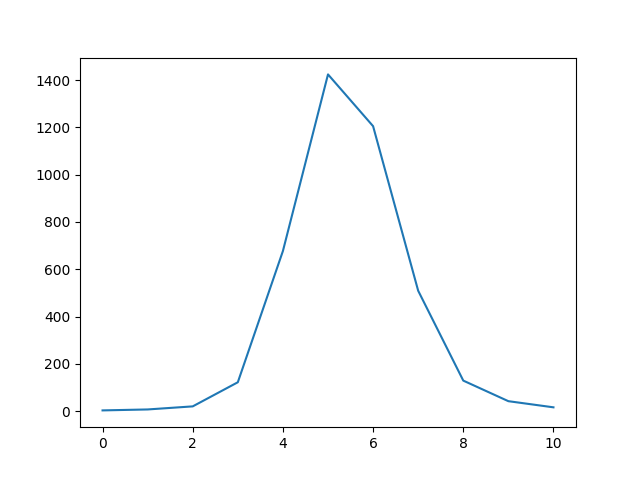
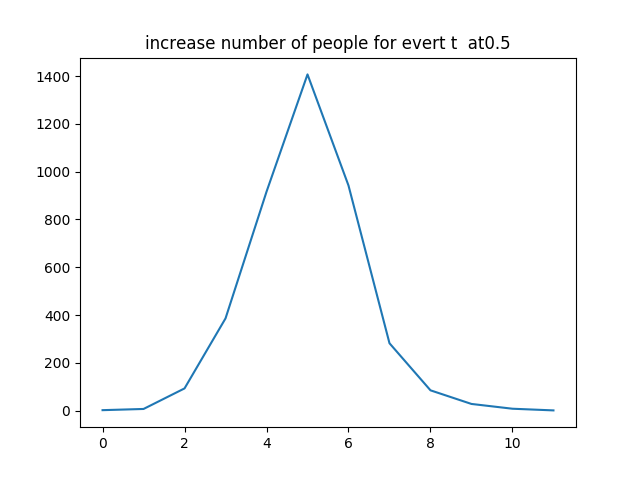
tests

diff --git a/jarden_center/main_code/single-multiple-source/eccitsy922/Conditional_satisfaction/source_progation_likeBFS/likeBFS_onesource.py b/jarden_center/main_code/single-multiple-source/eccitsy922/Conditional_satisfaction/source_progation_likeBFS/likeBFS_onesource.py
@@ -8,7 +8,7 @@
 
 # @Author  : baozhiqiang
 
-# @File    : likeBFS.py
+# @File    : likeBFS_mult_souce.py
 
 # @User    : bao
 
@@ -79,8 +79,6 @@ class  LikeBFS:
         :param SourceList:
         :return:
         '''
-
-
         queue = set()
         for source in SourceList:
             G.node[source]['SI'] = 2
@@ -122,27 +120,50 @@ class  LikeBFS:
     画图
     '''
 
-    def plot(self,x_list, y_list, propagation1):
+    def plot(self,x_list, y_list, propagation1,Probability):
         plt.figure()
         plt.plot(x_list, y_list)
+        plt.title('increase number of people for evert t  at'+str(Probability))
+
         plt.savefig('result/'+str(propagation1) + ".png")
         # plt.show()
+        plt.close()
 
 
-    def plot_plus(self,x_list,y_list1,y_list2,propagation1):
+    def plot_plus(self,x_list,y_list1,y_list2,propagation1,Probability):
 
         # label = 'y2'
         plt.plot(x_list, y_list1, 'g', label = 'progation')
         plt.plot(x_list, y_list2, 'r--', label='BFS')
         plt.legend()
-        plt.xlabel('t')
+        plt.title('increase number of people for evert t  at'+str(Probability))
 
         plt.ylabel('Increased number of infected people for every t')
         plt.savefig('result/'+str(propagation1) + ".png")
-
+        plt.close()
 
         # pass
 
+    def  plot_sum_increase(self,x_list,y_list1,y_list2,filename,Probability):
+        temp1 = 0
+        temp2 = 0
+        new_list1 =[]
+        new_list2 = []
+        for  y1, y2  in zip(y_list1, y_list2):
+            temp1  +=y1
+            new_list1.append(temp1)
+            temp2 += y2
+            new_list2.append(temp2)
+
+        plt.plot(x_list, new_list1, 'g', label='progation')
+        plt.plot(x_list, new_list2, 'r--', label='BFS')
+        plt.legend()
+        plt.title('sum number of people for evert t at'+str(Probability))
+        plt.xlabel('t')
+        plt.ylabel('sum of infected people for every t')
+        plt.savefig('result/' + str(filename) + ".png")
+        plt.close()
+    # pass
     def  get_best_BFScenter(self,subinfectG,fix_number_souce,progation_number,source_list):
         '''
 
@@ -189,24 +210,25 @@ class  LikeBFS:
 
 
 
-
     def main(self):
         initG = commons.get_networkByFile('../../../data/CA-GrQc.txt')
+
+        # initG = commons.get_networkByFile('../../../data/treenetwork3000.txt')
+
         max_sub_graph = commons.judge_data(initG)
         source_list = commons.product_sourceList(max_sub_graph, 1)
         infectG, progration_number, y_list1 = self.get_paogration(max_sub_graph, source_list)
-        print('progration_number',progration_number)
-        print('len(y_list1)',len(y_list1))
+        # print('progration_number',progration_number)
+        # print('len(y_list1)',len(y_list1))
         y_list2 = self.get_BFS(max_sub_graph,source_list[0],progration_number)
-
-
         print(len(y_list2))
         print(len(y_list1))
-        self.plot(range(len(y_list1)),y_list1,'progration')
-        self.plot(range(len(y_list2)),y_list2,'bfs')
-        self.plot_plus(range(len(y_list2)),y_list1,y_list2,'all')
-
-
+        Probability = 0.5
+        self.plot(range(len(y_list1)),y_list1,'progration',Probability)
+        self.plot(range(len(y_list1)),y_list2,'bfs',Probability)
+        self.plot_plus(range(len(y_list2)),y_list1,y_list2,'every_t',Probability)
+        self.plot_sum_increase(range(len(y_list2)),y_list1,y_list2,'sum',Probability)
+        #重新画一个图，记录增长总数变化。
 
 
 

diff --git a/jarden_center/main_code/single-multiple-source/eccitsy922/Monte_Carlo_first.py b/jarden_center/main_code/single-multiple-source/eccitsy922/Monte_Carlo_first.py
@@ -132,34 +132,6 @@ class FindSource:
         M_dis = 0
         best_h_node = []
         min_cover = 100  # 某一层的覆盖率，肯定会比这个小。
-        # tempGraph =self.infectG         #采用不同的感染图
-        # for eccentric, node_list in sort_eccentricity_dict[0:len(sort_eccentricity_dict)-1:1]:
-        #     print('how to that')
-        #     print(eccentric, node_list)
-        #     M_dis =  max_eccentric - eccentric  #最好的bFS树半径。
-        #     #随机挑选k个点固定次数。
-        #     temp_all_cover = 0
-        #     temp_cover = 0
-        #     temp_ave_cover = 0
-        #     if len(node_list) > self.fix_number_source*2  : #这一层只有大于3个点才可以。
-        #         itemNumber =  int(len(node_list)/10)   #层数越大，节点越多，应该采样越多才能逼近近似值。
-        #         for frequency  in range(itemNumber): #抽取10次,这里有问题，有些层数目多，怎么抽取会好点？按照层数抽取相应的次数会比较好点，公平。
-        #             slice = random.sample(node_list, self.fix_number_source)
-        #             temp_cover =commons.getSimilir1(slice, M_dis, singleRegionList, tempGraph)
-        #             temp_all_cover += temp_cover
-        #         if temp_all_cover != 0:
-        #             temp_ave_cover = temp_all_cover/itemNumber  #求出平均覆盖率。
-        #             print('temp_ave_cover',temp_ave_cover)
-        #         else:
-        #             temp_ave_cover = 0.1
-        #         if temp_ave_cover <= min_cover:
-        #             #这一层表现优异，记下h，以及这一层的所有节点。
-        #             print('每次平均的覆盖率是'+str(min_cover))
-        #             print('temp_ave_cover',temp_ave_cover)
-        #             min_cover = temp_ave_cover
-        #             best_h_node = node_list
-        #             best_h = M_dis
-        # print('输出表现优异同学,看看'+str(best_h_node),str(best_h))
 
 
         tempGraph = self.infectG
@@ -170,7 +142,6 @@ class FindSource:
             print(sort_eccentricity_dict[node_list_index][0])
             sort_eccentricity_dict[node_list_index][1].extend(sort_eccentricity_dict[node_list_index + 1][1])
             print(sort_eccentricity_dict[node_list_index][1])
-
             M_dis = max_eccentric - sort_eccentricity_dict[node_list_index][0] +1 # 最好的bFS树半径。
             # 随机挑选k个点固定次数。
             temp_all_cover = 0
@@ -237,7 +208,7 @@ class FindSource:
     
     '''
     def cal_distanceError(self,dir):
-        self.fix_number_source = 3
+        self.fix_number_source = 1
         distance = 0
         for i in range(5):
             self.main(dir)
@@ -250,7 +221,7 @@ class FindSource:
         pre = './result/'
         last = '.txt'
         with open(pre+dir+'first'+last, 'a') as f:
-            f.write(str(time.asctime( time.localtime(time.time()) ))+'\n')
+            f.write(str(time.asctime(time.localtime(time.time()) ))+'\n')
             f.write(str(5)+'    '+str(result))
         print(distance/5)
 

diff --git a/jarden_center/main_code/single-multiple-source/eccitsy922/Conditional_satisfaction/Coverage/coverage_oneSource.py b/jarden_center/main_code/single-multiple-source/eccitsy922/Conditional_satisfaction/Coverage/coverage_oneSource.py
@@ -1,0 +1,22 @@
+#!/usr/bin/python3
+
+# -*-coding:utf-8 -*-
+
+#Reference:**********************************************
+
+# @Time    : 2019/9/24 3:57 下午
+
+# @Author  : baozhiqiang
+
+# @File    : coverage_oneSource.py
+
+# @User    : bao
+
+# @Software: PyCharm
+
+#Reference:**********************************************
+
+
+
+
+

diff --git a/jarden_center/main_code/single-multiple-source/eccitsy922/Conditional_satisfaction/Coverage/coverage_mulSource.py b/jarden_center/main_code/single-multiple-source/eccitsy922/Conditional_satisfaction/Coverage/coverage_mulSource.py
@@ -1,0 +1,17 @@
+#!/usr/bin/python3
+
+# -*-coding:utf-8 -*-
+
+#Reference:**********************************************
+
+# @Time    : 2019/9/24 3:58 下午
+
+# @Author  : baozhiqiang
+
+# @File    : coverage_mulSource.py
+
+# @User    : bao
+
+# @Software: PyCharm
+
+#Reference:**********************************************

diff --git a/jarden_center/main_code/single-multiple-source/eccitsy922/Conditional_satisfaction/source_progation_likeBFS/likeBFS_commons.py b/jarden_center/main_code/single-multiple-source/eccitsy922/Conditional_satisfaction/source_progation_likeBFS/likeBFS_commons.py
@@ -1,0 +1,17 @@
+#!/usr/bin/python3
+
+# -*-coding:utf-8 -*-
+
+#Reference:**********************************************
+
+# @Time    : 2019/9/24 4:32 下午
+
+# @Author  : baozhiqiang
+
+# @File    : likeBFS_commons.py
+
+# @User    : bao
+
+# @Software: PyCharm
+
+#Reference:**********************************************

diff --git a/jarden_center/main_code/single-multiple-source/eccitsy922/Conditional_satisfaction/source_progation_likeBFS/likeBFS_mult_souce.py b/jarden_center/main_code/single-multiple-source/eccitsy922/Conditional_satisfaction/source_progation_likeBFS/likeBFS_mult_souce.py
@@ -8,7 +8,7 @@
 
 # @Author  : baozhiqiang
 
-# @File    : likeBFS.py
+# @File    : likeBFS_mult_souce.py
 
 # @User    : bao
 

diff --git a/jarden_center/main_code/single-multiple-source/eccitsy922/Conditional_satisfaction/Coverage/readme.md b/jarden_center/main_code/single-multiple-source/eccitsy922/Conditional_satisfaction/Coverage/readme.md
@@ -1,0 +1,15 @@
+#  1 本文件是验证覆盖率到底能不能很好的拟合传播结构？进而进行分区？
+
+给出一些如果拟合不好的可以考虑方向：  
+
+1  社区发现，社区检测。重叠社区发现  
+2  拉普拉斯矩阵分区
+
+# 2  验证手法
+
+## 2.1   
+分别进行单源传播区域，jarden_center定位
+多源传播区域定位，利用画图方式。来验证覆盖率是不是真的
+能够很好的反应传播区域，以及除了BFS之外的节点如何处置问题。
+
+
